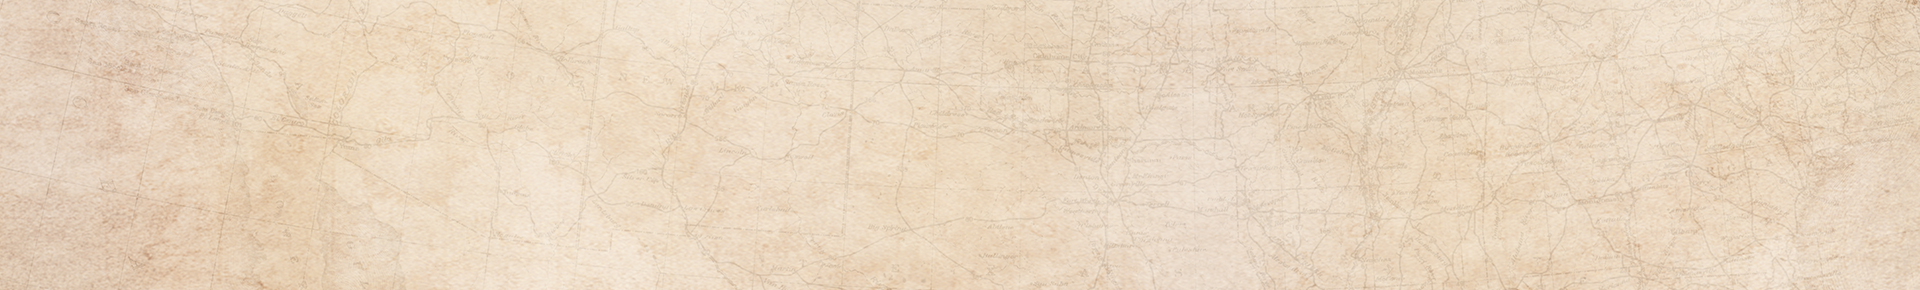
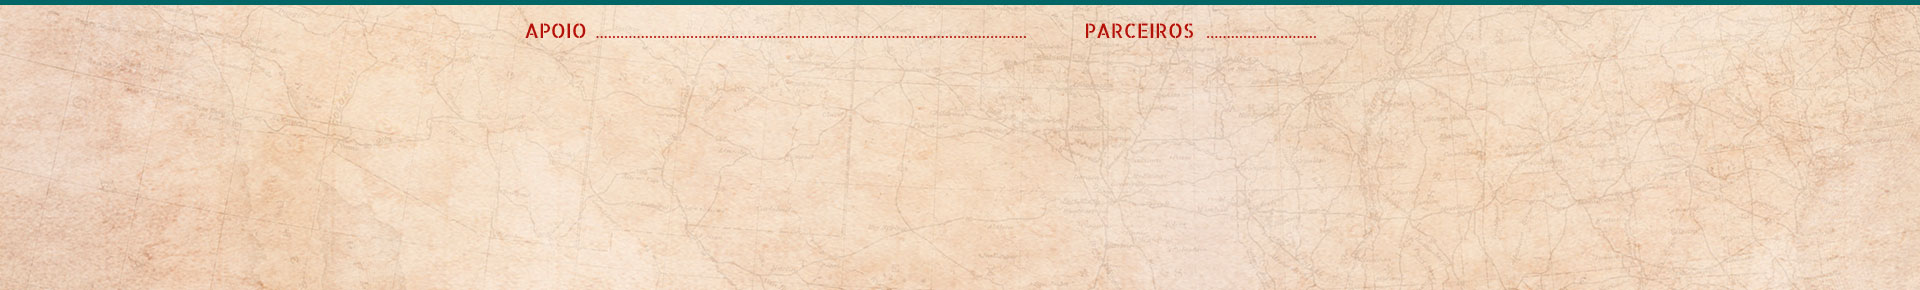
Concerto do Rodapé

diff --git a/CG_Extreme/br/style/main.css b/CG_Extreme/br/style/main.css
@@ -452,13 +452,27 @@ cursive;
 	position:absolute;
 	left:0;
 	margin:200px 0px 0px 0px;
-	background: url(../img/pd/rodape.jpg);
+	background: url(../img/rodape/fundo-rodape.jpg) no-repeat 50% 0;
 }
 .rodape{
 	width:960px;
 	height:140px;
 	margin:auto;
-	background:red;
+}
+.apoio{
+	width:500px;
+	height:70px;
+	position:relative;
+	left:70px;
+	top:50px;
+}
+.parceiros{
+	width:230px;
+	height:70px;
+	position:relative;
+	right:130px;
+	top:-20px;
+	float:right;
 }
 .direitos{
 	background:black;

diff --git a/CG_Extreme/br/palestrantes.php b/CG_Extreme/br/palestrantes.php
@@ -46,20 +46,7 @@ Acabe agora com a sua curiosidade e conheça cada um deles!
 						</span>
 					</div><!--close main video-->
 				</div><!--close palestrante gallery-->
-         <!--- rodape -->  
-<div id="rodape_palestrantes">
-<center>
-<div id="redes_sociais">
-<ul>
-<a href="https://www.facebook.com/SevenComputacaoGrafica" target="new"><li><img src="img/pd/facebook.png"></li></a>
-<a href="http://www.youtube.com/user/seven7cg" target="new"><li><img src="img/pd/youtube.png"></li></a>
-</ul>
-</div>
-
-<div id="direitos"><strong>copyright&copy;CGEXTREME - TODOS OS DIREITOS RESERVADOS</strong></div></center>
-</div>
-
-<!-- rodape -->  
+<?php include('include/rodape.php'); ?>
 			</div><!--close wrapper-->
       
 		</div><!--close content-->

diff --git a/CG_Extreme/br/chance_glasco.php b/CG_Extreme/br/chance_glasco.php
@@ -127,20 +127,9 @@
 						</div><!--close galleryThumb-->
 					</div><!--close palestrante gallery-->
 				</div><!--close wrapper-->
-       <!--- rodape -->  
-<div id="rodape_s">
-<center>
-<div id="redes_sociais">
-<ul>
-<a href="https://www.facebook.com/SevenComputacaoGrafica" target="new"><li><img src="img/pd/facebook.png"></li></a>
-<a href="http://www.youtube.com/user/seven7cg" target="new"><li><img src="img/pd/youtube.png"></li></a>
-</ul>
-</div>
+  			</div><!--close content-->
+  			
+  			<?php include('include/rodape.php'); ?>
 
-<div id="direitos"><strong>copyright&copy;CGEXTREME - TODOS OS DIREITOS RESERVADOS</strong></div></center>
-</div>
-
-<!-- rodape --> 
-			</div><!--close content-->
 	</body>
 </html>

diff --git a/CG_Extreme/br/nathaniel_howe.php b/CG_Extreme/br/nathaniel_howe.php
@@ -129,20 +129,6 @@
 						</div><!--close galleryThumb-->
 					</div><!--close palestrante gallery-->
 				</div><!--close wrapper-->
-          <!--- rodape -->  
-<div id="rodape_s_m">
-<center>
-<div id="redes_sociais">
-<ul>
-<a href="https://www.facebook.com/SevenComputacaoGrafica" target="new"><li><img src="img/pd/facebook.png"></li></a>
-<a href="http://www.youtube.com/user/seven7cg" target="new"><li><img src="img/pd/youtube.png"></li></a>
-</ul>
-</div>
-
-<div id="direitos"><strong>copyright&copy;CGEXTREME - TODOS OS DIREITOS RESERVADOS</strong></div></center>
-</div>
-
-<!-- rodape --> 
-			</div><!--close content-->
+       <?php include('include/rodape.php'); ?>			</div><!--close content-->
 	</body>
 </html>

diff --git a/CG_Extreme/br/laurie_brugger.php b/CG_Extreme/br/laurie_brugger.php
@@ -116,20 +116,7 @@
 						</div><!--close galleryThumb-->
 					</div><!--close palestrante gallery-->
 				</div><!--close wrapper-->
-          <!--- rodape -->  
-<div id="rodape_s">
-<center>
-<div id="redes_sociais">
-<ul>
-<a href="https://www.facebook.com/SevenComputacaoGrafica" target="new"><li><img src="img/pd/facebook.png"></li></a>
-<a href="http://www.youtube.com/user/seven7cg" target="new"><li><img src="img/pd/youtube.png"></li></a>
-</ul>
-</div>
-
-<div id="direitos"><strong>copyright&copy;CGEXTREME - TODOS OS DIREITOS RESERVADOS</strong></div></center>
-</div>
-
-<!-- rodape --> 
-			</div><!--close content-->
+			<?php include('include/rodape.php'); ?>
+		</div><!--close content-->
 	</body>
 </html>

diff --git a/CG_Extreme/br/local.php b/CG_Extreme/br/local.php
@@ -72,21 +72,7 @@ Nos vemos lá!
 					</div><!--close cityBankVideo-->
 				</div><!--close palestrante gallery-->
         
-			</div><!--close wrapper-->
-      <!--- rodape -->  
-<div id="rodape_local">
-<center>
-<div id="redes_sociais">
-<ul>
-<a href="https://www.facebook.com/SevenComputacaoGrafica" target="new"><li><img src="img/pd/facebook.png"></li></a>
-<a href="http://www.youtube.com/user/seven7cg" target="new"><li><img src="img/pd/youtube.png"></li></a>
-</ul>
-</div>
-
-<div id="direitos"><strong>copyright&copy;CGEXTREME - TODOS OS DIREITOS RESERVADOS</strong></div></center>
-</div>
-
-<!-- rodape -->  </div>
+	<?php include('include/rodape.php'); ?>
 		</div><!--close content-->
 	</body>
 </html>

diff --git a/CG_Extreme/br/sebastian_krys.php b/CG_Extreme/br/sebastian_krys.php
@@ -130,20 +130,7 @@
 						</div><!--close galleryThumb-->
 					</div><!--close palestrante gallery-->
 				</div><!--close wrapper-->
-                 <!--- rodape -->  
-<div id="rodape_s">
-<center>
-<div id="redes_sociais">
-<ul>
-<a href="https://www.facebook.com/SevenComputacaoGrafica" target="new"><li><img src="img/pd/facebook.png"></li></a>
-<a href="http://www.youtube.com/user/seven7cg" target="new"><li><img src="img/pd/youtube.png"></li></a>
-</ul>
-</div>
-
-<div id="direitos"><strong>copyright&copy;CGEXTREME - TODOS OS DIREITOS RESERVADOS</strong></div></center>
-</div>
-
-<!-- rodape --> 
+			<?php include('include/rodape.php'); ?>
 			</div><!--close content-->
 	</body>
 </html>

diff --git a/CG_Extreme/br/cordy_rierson.php b/CG_Extreme/br/cordy_rierson.php
@@ -128,20 +128,7 @@
 						</div><!--close galleryThumb-->
 					</div><!--close palestrante gallery-->
 				</div><!--close wrapper-->
-          <!--- rodape -->  
-<div id="rodape_s">
-<center>
-<div id="redes_sociais">
-<ul>
-<a href="https://www.facebook.com/SevenComputacaoGrafica" target="new"><li><img src="img/pd/facebook.png"></li></a>
-<a href="http://www.youtube.com/user/seven7cg" target="new"><li><img src="img/pd/youtube.png"></li></a>
-</ul>
-</div>
-
-<div id="direitos"><strong>copyright&copy;CGEXTREME - TODOS OS DIREITOS RESERVADOS</strong></div></center>
-</div>
-
-<!-- rodape --> 
+        <?php include('include/rodape.php'); ?>
 			</div><!--close content-->
 	</body>
 </html>

diff --git a/CG_Extreme/br/include/rodape.php b/CG_Extreme/br/include/rodape.php
@@ -1,17 +1,20 @@
+<div class="clear"></div>
 	<!--- rodape -->  
 	<div class="mainRodape">
-	
-	
 		<div class="rodape">
 		
 			<div class="apoio">
-			
+			<a href="http://www.rio.rj.gov.br/" target="new"><img src="img/rodape/logo-prefeitura-rio.jpg" alt="" title=""></a>
 			</div><!-- close apoio -->
 			
-		</div><!-- close rodape -->
+			<div class="parceiros">
+			<a href="http://www.cvc.com.br/" target="new"><img src="img/rodape/logo-cvc.png" alt="" title="">
+			</div><!-- close parceiros -->
 		
+		</div><!-- close rodape -->
 	</div><!-- mainRodape -->
 		
+	
 	<div class="direitos">
 		<center>
 		<strong>copyright&copy;CGEXTREME - TODOS OS DIREITOS RESERVADOS</strong>

diff --git a/CG_Extreme/br/contato.php b/CG_Extreme/br/contato.php
@@ -147,20 +147,7 @@ if (isset($_POST['BTEnvia'])){
         
 				<div class="clear"></div>
 			</div><!--close wrapper-->
-        <!--- rodape -->  
-<div id="rodape_contato">
-<center>
-<div id="redes_sociais">
-<ul>
-<a href="https://www.facebook.com/SevenComputacaoGrafica" target="new"><li><img src="img/pd/facebook.png"></li></a>
-<a href="http://www.youtube.com/user/seven7cg" target="new"><li><img src="img/pd/youtube.png"></li></a>
-</ul>
-</div>
-
-<div id="direitos"><strong>copyright&copy;CGEXTREME - TODOS OS DIREITOS RESERVADOS</strong></div></center>
-</div>
-
-<!-- rodape -->
+<?php include('include/rodape.php'); ?>
 		</div><!--close content-->
 	</body>
 </html>

diff --git a/CG_Extreme/br/midia-2.php b/CG_Extreme/br/midia-2.php
@@ -75,18 +75,5 @@
 					
 					</div><! close content midia -- >
 
-					 <!--- rodape -->  
-					<div id="rodape_ingressos">
-					<center>
-					<div id="redes_sociais">
-					<ul>
-					<a href="https://www.facebook.com/SevenComputacaoGrafica" target="new"><li><img src="img/pd/facebook.png"></li></a>
-					<a href="http://www.youtube.com/user/seven7cg" target="new"><li><img src="img/pd/youtube.png"></li></a>
-					</ul>
-					</div>
-					
-					<div id="direitos"><strong>copyright&copy;CGEXTREME - TODOS OS DIREITOS RESERVADOS</strong></div></center>
-					</div>
-					<!-- rodape -->  </div>
-</body>
+					<?php include('include/rodape.php'); ?></body>
 </html>

diff --git a/CG_Extreme/br/midia.php b/CG_Extreme/br/midia.php
@@ -67,19 +67,6 @@
 					
 				</div><! close content midia -- >
 
-					 <!--- rodape -->  
-					<div id="rodape_ingressos">
-					<center>
-					<div id="redes_sociais">
-					<ul>
-					<a href="https://www.facebook.com/SevenComputacaoGrafica" target="new"><li><img src="img/pd/facebook.png"></li></a>
-					<a href="http://www.youtube.com/user/seven7cg" target="new"><li><img src="img/pd/youtube.png"></li></a>
-					</ul>
-					</div>
-					
-					<div id="direitos"><strong>copyright&copy;CGEXTREME - TODOS OS DIREITOS RESERVADOS</strong></div></center>
-					</div>
-					
-					<!-- rodape -->  </div>
+					<?php include('include/rodape.php'); ?>
 </body>
 </html>
